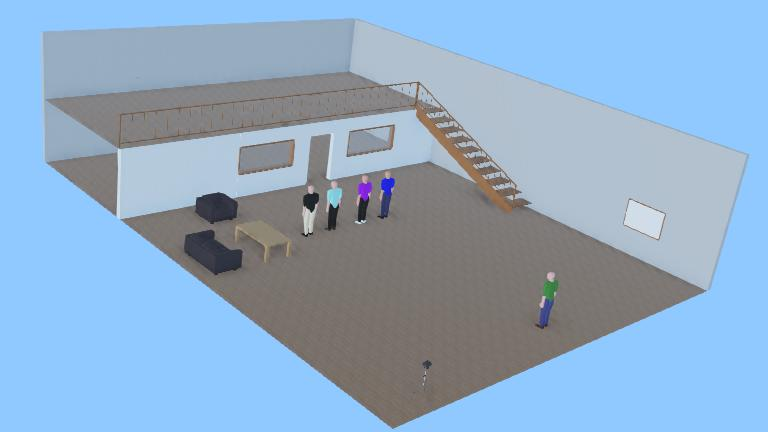
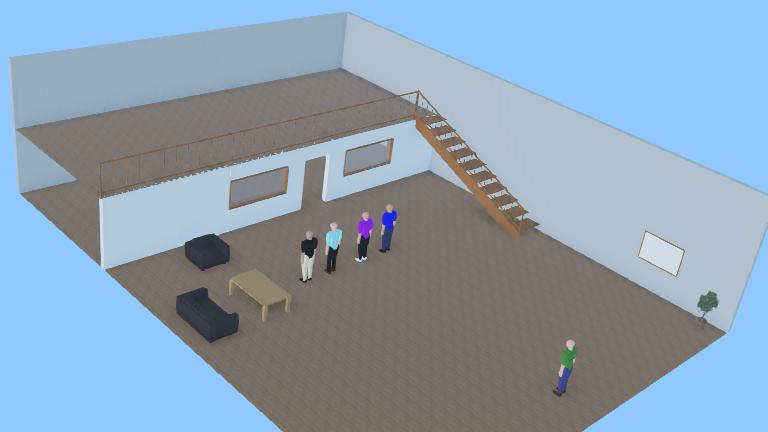
...

diff --git a/Simulation World/controllers/trajectory_B/trajectory_B.py b/Simulation World/controllers/trajectory_B/trajectory_B.py
@@ -68,6 +68,8 @@ class PedestrianFollower(Supervisor):
         joints_fields = [root_node.getField(name) for name in self.joint_names]
 
         while self.step(time_step) != -1:
+            if self.getTime() < 3:
+                continue
             if not self.waypoints:
                 continue
 
